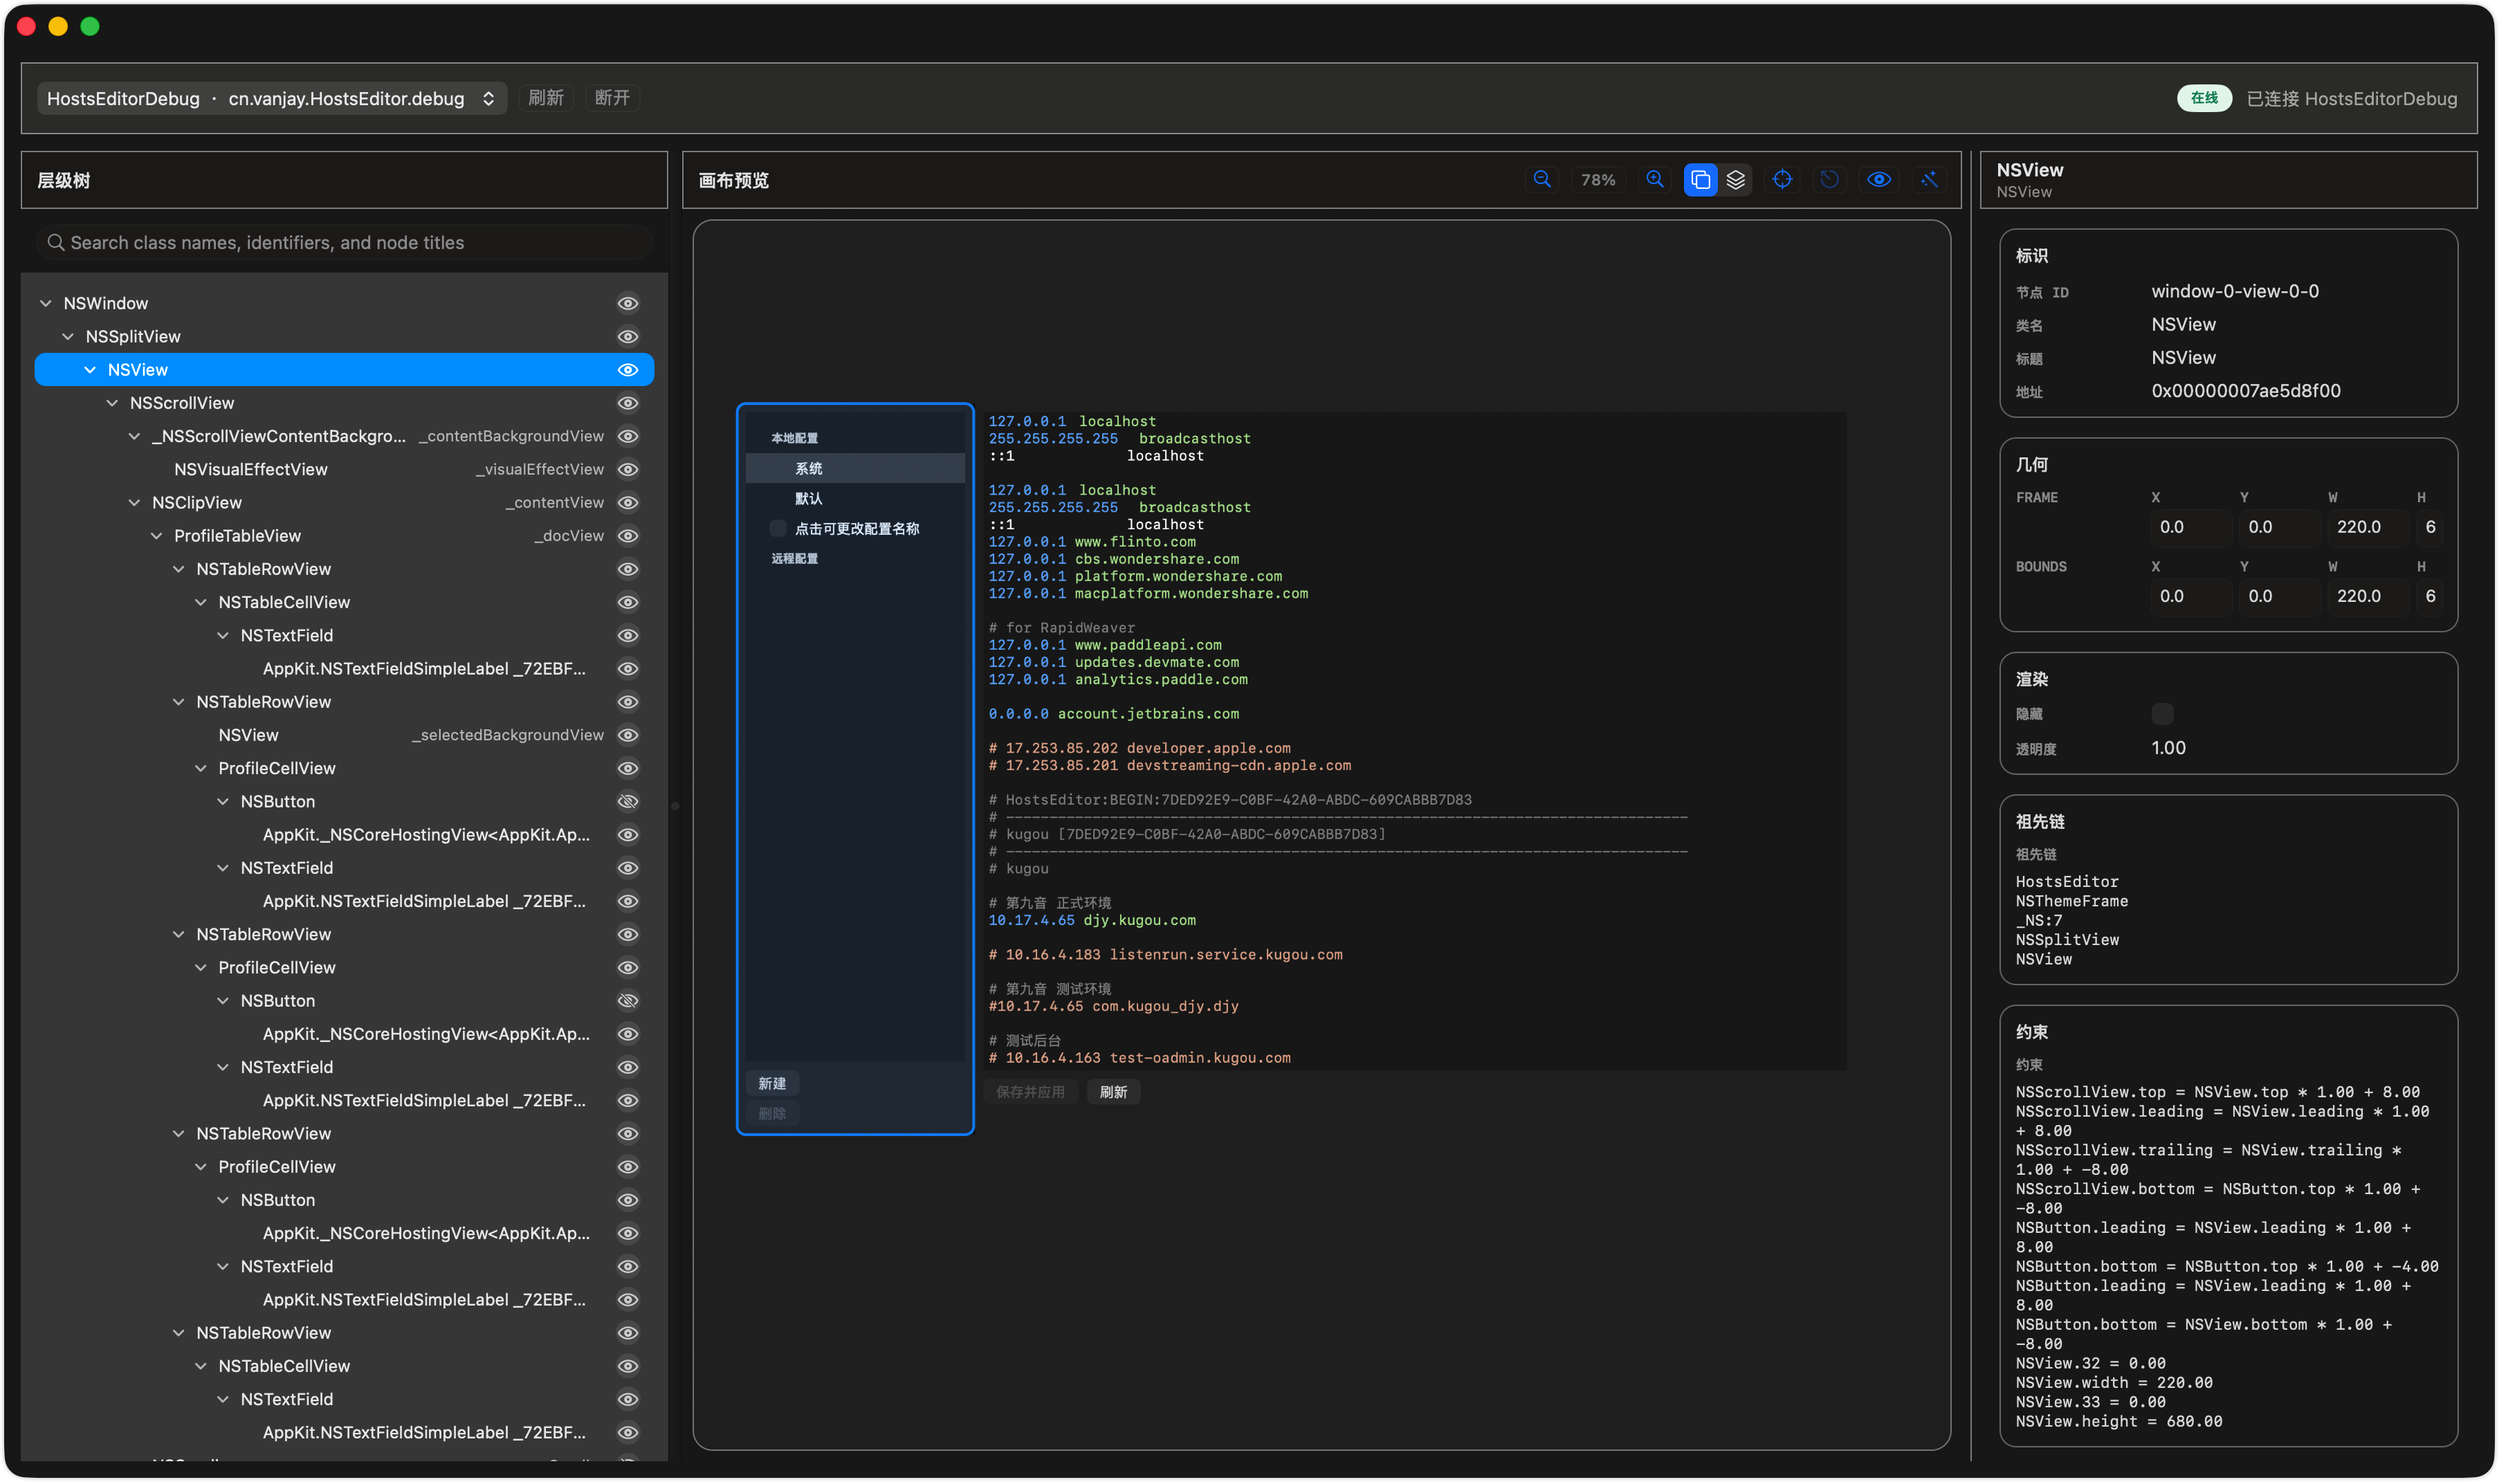
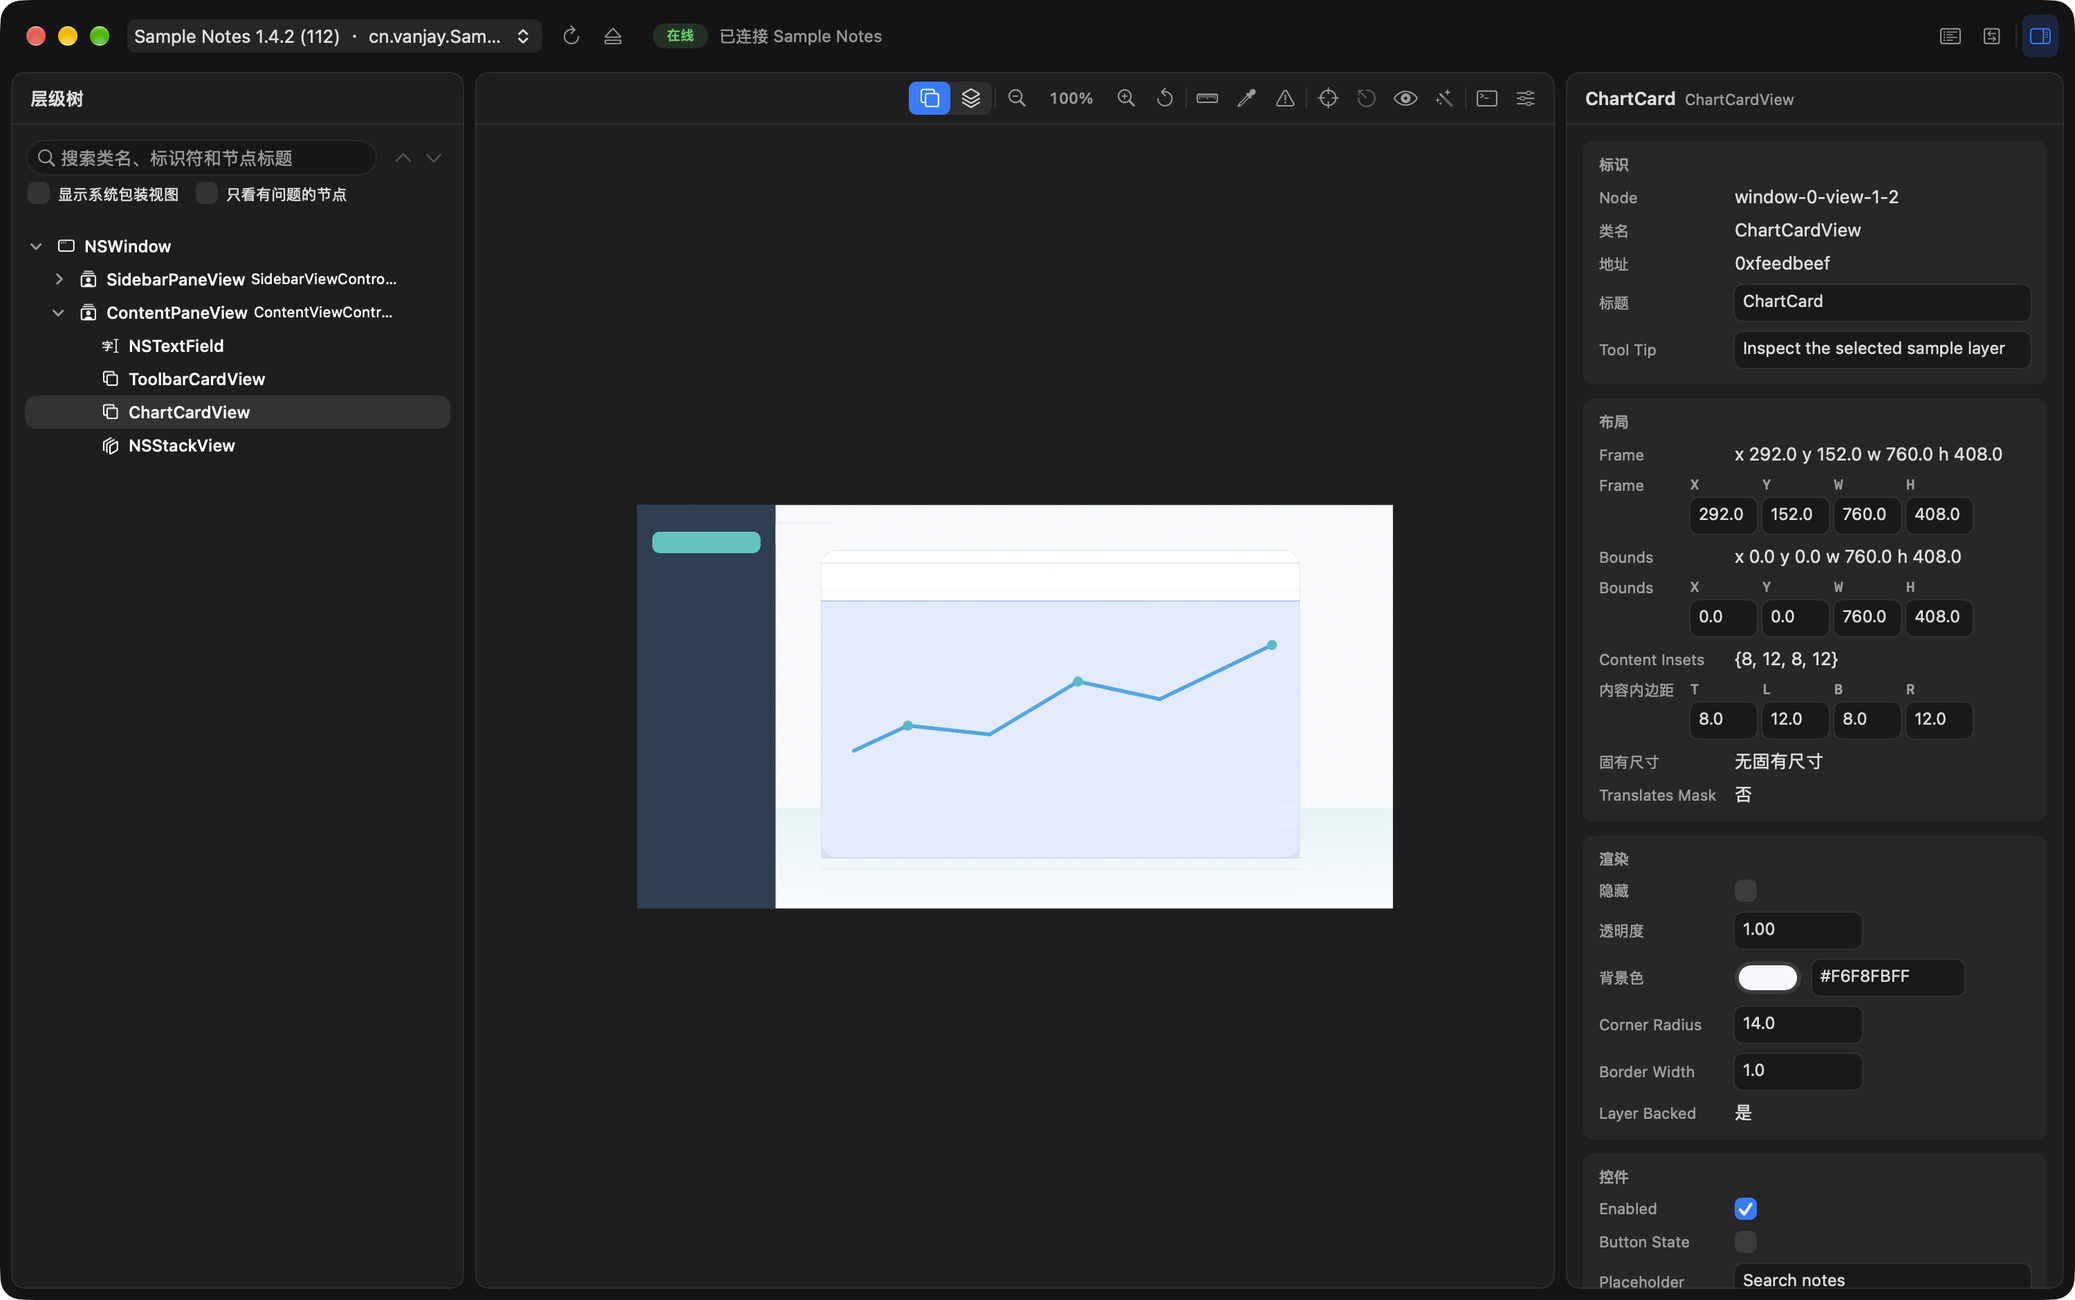
chore: 发布版本 1.3.0

Changed region(s): [[0.0, 0.0, 1.0, 1.0], [0.434, 0.0617, 0.527, 0.0926], [0.279, 0.0926, 0.31, 0.1543]]

diff --git a/README.md b/README.md
@@ -74,7 +74,7 @@ xcodebuild \
 ### Swift Package Manager
 
 ```swift
-.package(url: "https://github.com/wangwanjie/ViewScope.git", from: "1.2.2")
+.package(url: "https://github.com/wangwanjie/ViewScope.git", from: "1.3.0")
 ```
 
 仓库根目录直接提供 `Package.swift`，Xcode / SwiftPM 可以直接依赖整个仓库 URL，无需指向 `ViewScopeServer/` 子目录。
@@ -121,7 +121,7 @@ iOS 与 macOS 共用同一个 `ViewScopeServer` product（iOS 13+；用 Xcode 27
 ### CocoaPods
 
 ```ruby
-pod 'ViewScopeServer', :git => 'https://github.com/wangwanjie/ViewScope.git', :tag => 'v1.2.2', :configurations => ['Debug']
+pod 'ViewScopeServer', :git => 'https://github.com/wangwanjie/ViewScope.git', :tag => 'v1.3.0', :configurations => ['Debug']
 或者
 pod 'ViewScopeServer', :git => 'https://github.com/wangwanjie/ViewScope.git', :branch => 'main', :configurations => ['Debug']
 ```
@@ -129,7 +129,7 @@ pod 'ViewScopeServer', :git => 'https://github.com/wangwanjie/ViewScope.git', :b
 ### Carthage
 
 ```ruby
-github "wangwanjie/ViewScope" ~> 1.2
+github "wangwanjie/ViewScope" ~> 1.3
 ```
 
 然后执行：

diff --git a/release-notes/v1.3.0.md b/release-notes/v1.3.0.md
@@ -1,0 +1,7 @@
+# ViewScope 1.3.0
+
+- 新增 iOS 宿主支持：可调试 iOS / iPadOS 模拟器中的 App，以及通过 USB（usbmuxd 隧道）连接的真机；宿主端重构为共享核心 + AppKit / UIKit 双平台实现。
+- 新增测量与取色、布局问题诊断、修改记录（⌘Z / ⇧⌘Z 撤销重做、逐条还原、导出 Swift 代码）、抓取对比，调试控制台支持带参数方法、key path、对象引用、历史与自动补全。
+- 连接协议升级到 v3：端口段发现、逐连接认证、版本协商、请求超时、断线后自动重连；宿主侧 ViewScopeServer 需同步升级到 1.3.0。
+- 全新界面与应用图标：工具栏并入标题栏，面板改为统一的圆角卡片，预览工具栏按功能分组，偏好设置改为系统设置风格。
+- 修复数值越界、私有 KVC、自动刷新覆盖选中、Inspector 写错节点、编辑中被刷新提交等多处会导致崩溃或误操作的问题。
